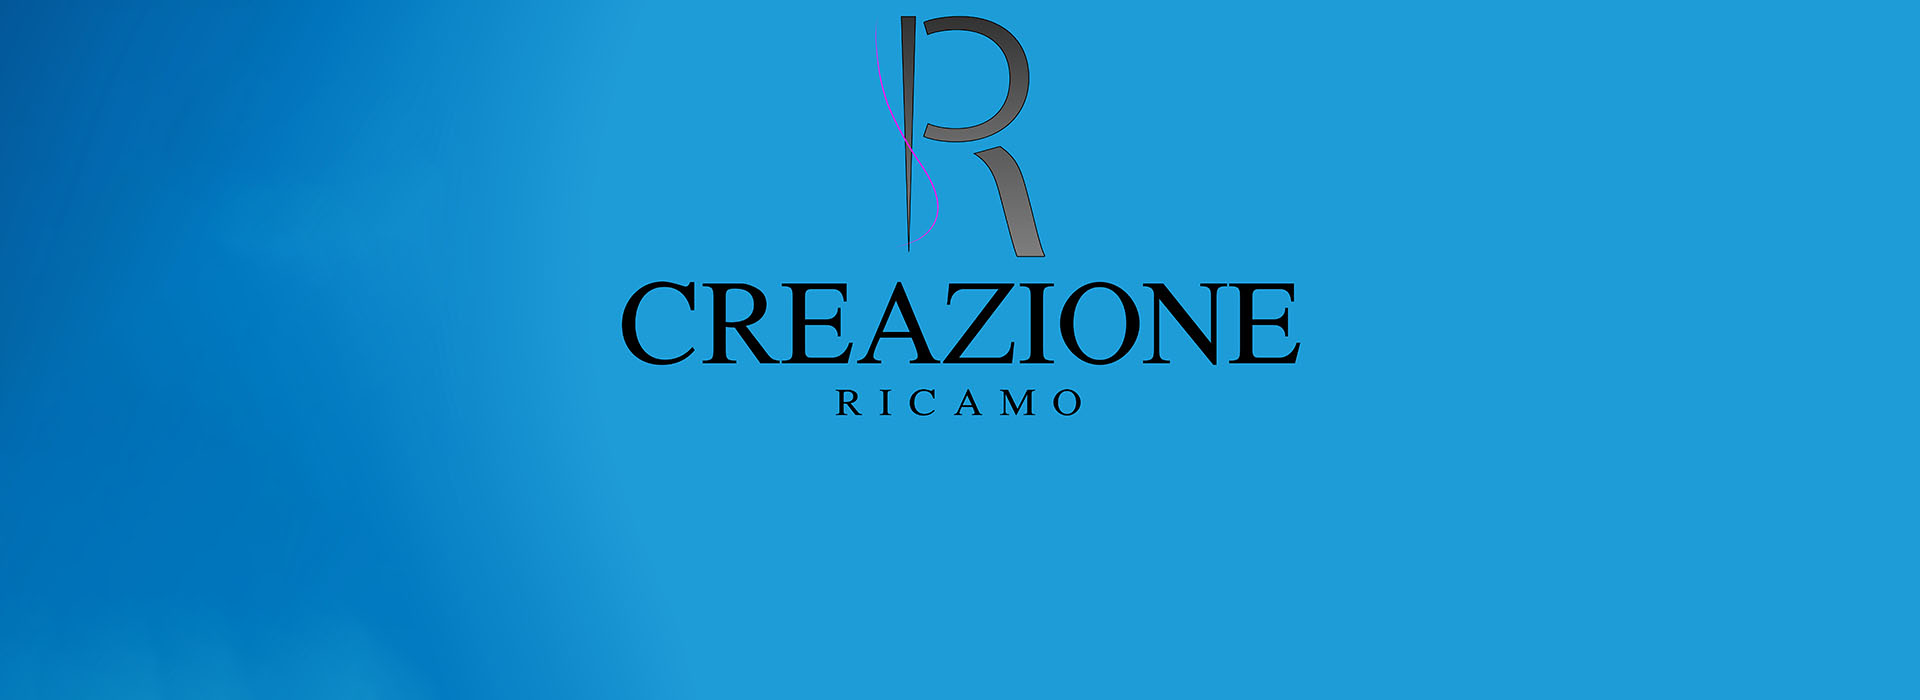
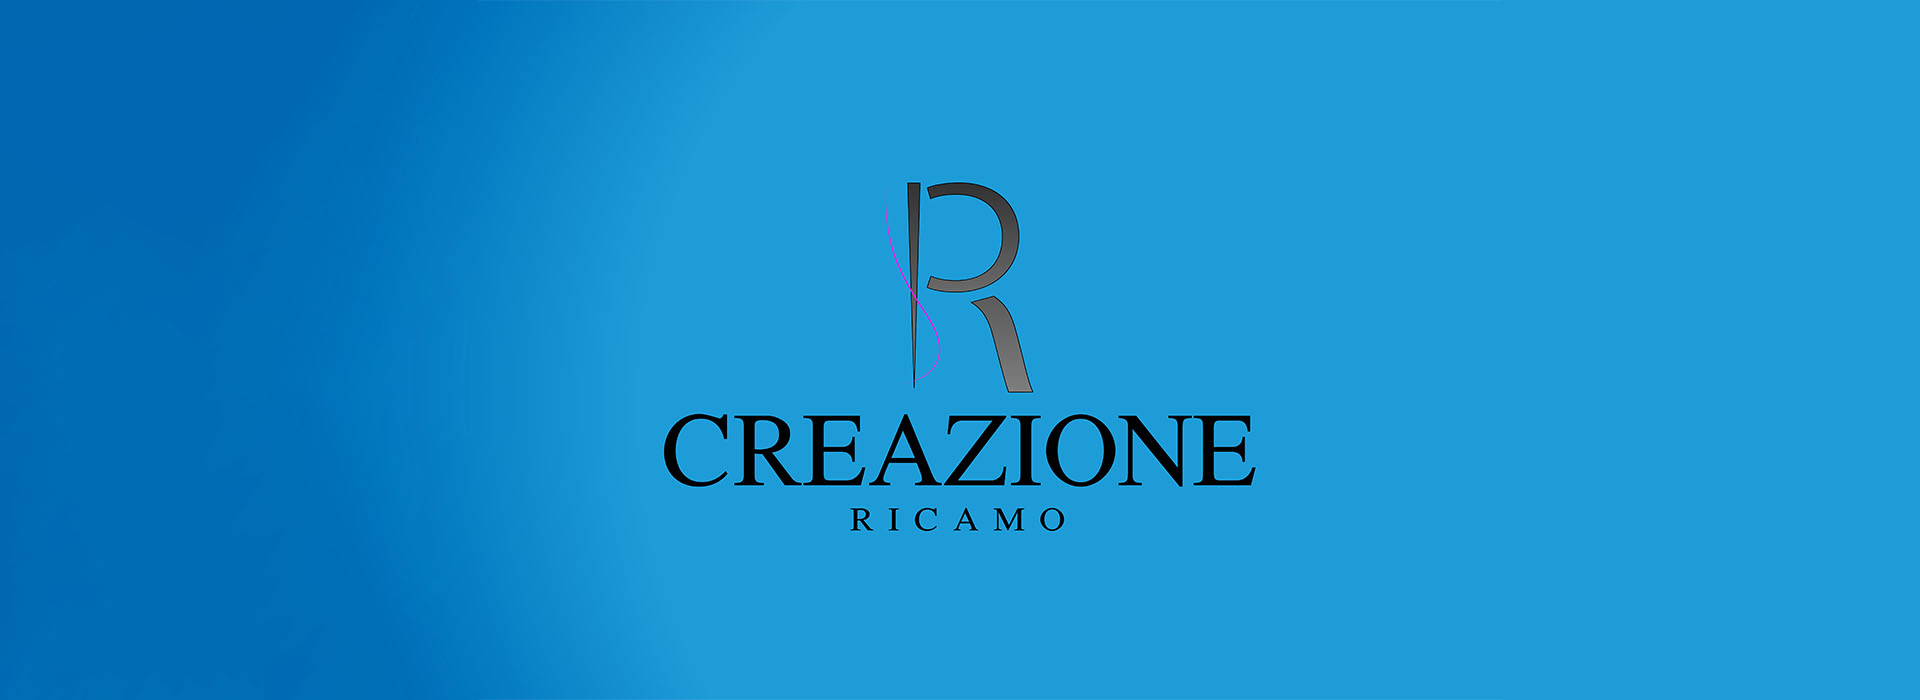
cambio immagine header-page, modifica contatti.html

Changed region(s): [[0.3125, 0.0, 0.6875, 0.78], [0.0938, 0.96, 0.2188, 1.0]]

diff --git a/contact.html b/contact.html
@@ -3,10 +3,16 @@
 
 <head>
     <meta charset="utf-8">
-    <title>Klinik - Clinic Website Template</title>
+    <title>Creazione Ricami - Contatti</title>
     <meta content="width=device-width, initial-scale=1.0" name="viewport">
     <meta content="" name="keywords">
     <meta content="" name="description">
+
+    <!-- Icon Font Stylesheet -->
+    <!-- Font Awesome v4 -->
+    <link rel="stylesheet" href="https://cdnjs.cloudflare.com/ajax/libs/font-awesome/4.7.0/css/font-awesome.min.css">
+    <!-- Font Awesome v5 -->
+    <link rel="stylesheet" href="https://cdnjs.cloudflare.com/ajax/libs/font-awesome/6.0.0-beta3/css/all.min.css">
 
     <!-- Favicon -->
     <link href="img/favicon.ico" rel="icon">
@@ -48,23 +54,23 @@
             <div class="col-lg-7 px-5 text-start">
                 <div class="h-100 d-inline-flex align-items-center py-3 me-4">
                     <small class="fa fa-map-marker-alt my-text-primary me-2"></small>
-                    <small>123 Street, New York, USA</small>
+                    <small>Napoli</small>
                 </div>
                 <div class="h-100 d-inline-flex align-items-center py-3">
                     <small class="far fa-clock my-text-primary me-2"></small>
-                    <small>Mon - Fri : 09.00 AM - 09.00 PM</small>
+                    <small>Lun - Ven : 09.00 - 19.00</small>
                 </div>
             </div>
             <div class="col-lg-5 px-5 text-end">
                 <div class="h-100 d-inline-flex align-items-center py-3 me-4">
                     <small class="fa fa-phone-alt my-text-primary me-2"></small>
-                    <small>+012 345 6789</small>
+                    <small>081 5295653 - 349 2937511</small>
                 </div>
                 <div class="h-100 d-inline-flex align-items-center">
-                    <a class="btn btn-sm-square rounded-circle bg-white my-text-primary me-1" href=""><i class="fab fa-facebook-f"></i></a>
-                    <a class="btn btn-sm-square rounded-circle bg-white my-text-primary me-1" href=""><i class="fab fa-twitter"></i></a>
-                    <a class="btn btn-sm-square rounded-circle bg-white my-text-primary me-1" href=""><i class="fab fa-linkedin-in"></i></a>
-                    <a class="btn btn-sm-square rounded-circle bg-white my-text-primary me-0" href=""><i class="fab fa-instagram"></i></a>
+                    <a class="btn btn-sm-square rounded-circle bg-white my-text-primary me-1" href="https://www.instagram.com/creazione_ricamo?igsh=dG8wcngwaGR2OWVn" target="_blank"><i class="fab fa-instagram"></i></a>
+                    <a class="btn btn-sm-square rounded-circle bg-white my-text-primary me-1" href="" target="_blank"><i class="fab fa-facebook-f"></i></a>
+                    <a class="btn btn-sm-square rounded-circle bg-white my-text-primary me-1" href="" target="_blank"><i class="fab fa-twitter"></i></a>
+                    <a class="btn btn-sm-square rounded-circle bg-white my-text-primary me-0" href="" target="_blank"><i class="fab fa-linkedin-in"></i></a>
                 </div>
             </div>
         </div>
@@ -73,45 +79,43 @@
 
 
     <!-- Navbar Start -->
-    <nav class="navbar navbar-expand-lg bg-white navbar-light sticky-top p-0 wow fadeIn" data-wow-delay="0.1s">
-        <a href="index.html" class="navbar-brand d-flex align-items-center px-4 px-lg-5">
-            <h1 class="m-0 my-text-primary"><i class="far fa-hospital me-3"></i>Klinik</h1>
-        </a>
-        <button type="button" class="navbar-toggler me-4" data-bs-toggle="collapse" data-bs-target="#navbarCollapse">
-            <span class="navbar-toggler-icon"></span>
-        </button>
-        <div class="collapse navbar-collapse" id="navbarCollapse">
-            <div class="navbar-nav ms-auto p-4 p-lg-0">
-                <a href="index.html" class="nav-item nav-link">Home</a>
-                <a href="about.html" class="nav-item nav-link">About</a>
-                <a href="service.html" class="nav-item nav-link">Service</a>
-                <div class="nav-item dropdown">
-                    <a href="#" class="nav-link dropdown-toggle" data-bs-toggle="dropdown">Pages</a>
-                    <div class="dropdown-menu rounded-0 rounded-bottom m-0">
-                        <a href="feature.html" class="dropdown-item">Feature</a>
-                        <a href="team.html" class="dropdown-item">Our Doctor</a>
-                        <a href="appointment.html" class="dropdown-item">Appointment</a>
-                        <a href="testimonial.html" class="dropdown-item">Testimonial</a>
-                        <a href="404.html" class="dropdown-item">404 Page</a>
-                    </div>
-                </div>
-                <a href="contact.html" class="nav-item nav-link active">Contact</a>
+<nav class="navbar navbar-expand-lg bg-white navbar-light sticky-top p-0 wow fadeIn" data-wow-delay="0.1s">
+    <a href="index.html" class="navbar-brand d-flex align-items-center px-4 px-lg-5">
+        <h1 class="m-0 my-text-primary"><i class="fa fa-house me-3"></i> Creazione Ricamo</h1>
+    </a>
+    <button type="button" class="navbar-toggler me-4" data-bs-toggle="collapse" data-bs-target="#navbarCollapse">
+        <span class="navbar-toggler-icon"></span>
+    </button>
+    <div class="collapse navbar-collapse" id="navbarCollapse">
+        <div class="navbar-nav ms-auto p-4 p-lg-0">
+            <a href="index.html" class="nav-item nav-link">Home</a>
+            <a href="about.html" class="nav-item nav-link">Chi Siamo</a>
+            <div class="nav-item dropdown d-flex align-items-center">
+                <!-- Link a "Servizi" separato dal pulsante per il dropdown -->
+                <a href="service.html" class="nav-link">Servizi</a>
+                <button class="btn dropdown-toggle" type="button" id="servicesDropdownButton" data-bs-toggle="dropdown" aria-expanded="false"></button>
+                <ul class="dropdown-menu" aria-labelledby="servicesDropdownButton">
+                    <li><a class="dropdown-item" href="ricamo.html">Ricamo</a></li>
+                    <li><a class="dropdown-item" href="DTF.html">DTF</a></li>
+                    <li><a class="dropdown-item" href="sublimatico.html">Sublimatico</a></li>
+                    <li><a class="dropdown-item" href="vinile.html">Vinile</a></li>
+                    <li><a class="dropdown-item" href="serigrafia.html">Serigrafia</a></li>
+                </ul>
             </div>
-            <a href="" class="btn my-btn-primary rounded-0 py-4 px-lg-5 d-none d-lg-block">Appointment<i class="fa fa-arrow-right ms-3"></i></a>
-        </div>
-    </nav>
-    <!-- Navbar End -->
+            <a href="contact.html" class="nav-item nav-link active">Contatti</a>
+</nav>
+<!-- Navbar End -->
 
 
     <!-- Page Header Start -->
     <div class="container-fluid page-header py-5 mb-5 wow fadeIn" data-wow-delay="0.1s">
         <div class="container py-5">
-            <h1 class="display-3 text-white mb-3 animated slideInDown">Contact Us</h1>
+            <h1 class="display-3 text-white mb-3 animated slideInDown">Contatti</h1>
             <nav aria-label="breadcrumb animated slideInDown">
                 <ol class="breadcrumb text-uppercase mb-0">
                     <li class="breadcrumb-item"><a class="text-white" href="#">Home</a></li>
                     <li class="breadcrumb-item"><a class="text-white" href="#">Pages</a></li>
-                    <li class="breadcrumb-item my-text-primary active my-color" aria-current="page">Contact</li>
+                    <li class="breadcrumb-item my-text-primary active my-color" aria-current="page">Contatti</li>
                 </ol>
             </nav>
         </div>
@@ -129,8 +133,10 @@
                             <i class="fa fa-map-marker-alt my-text-primary"></i>
                         </div>
                         <div class="ms-4">
-                            <p class="mb-2">Address</p>
-                            <h5 class="mb-0">123 Street, New York, USA</h5>
+                            <p class="mb-2">Indirizzo</p>
+                            <h5 class="mb-0">
+                                <a href="https://maps.app.goo.gl/WSVrFFgJL5UVE5Sw9">Napoli</a> 
+                            </h5>
                         </div>
                     </div>
                 </div>
@@ -140,8 +146,13 @@
                             <i class="fa fa-phone-alt my-text-primary"></i>
                         </div>
                         <div class="ms-4">
-                            <p class="mb-2">Call Us Now</p>
-                            <h5 class="mb-0">+012 345 6789</h5>
+                            <p class="mb-2">Chiamaci</p>
+                            <h5 class="mb-0">
+                                <a href="tel:+390815295653">081 529 5653</a>
+                            </h5>
+                            <h5 class="mb-0">
+                                <a href="tel:+3934929375113">349 293 7511</a>
+                            </h5>
                         </div>
                     </div>
                 </div>
@@ -151,44 +162,49 @@
                             <i class="fa fa-envelope-open my-text-primary"></i>
                         </div>
                         <div class="ms-4">
-                            <p class="mb-2">Mail Us Now</p>
-                            <h5 class="mb-0">info@example.com</h5>
+                            <p class="mb-2">E-mail</p>
+                            <h5 class="mb-0">
+                                <a href="mailto:creazione.ricamo@gmail.com">creazione.ricamo@gmail.com</a>
+                            </h5>
                         </div>
                     </div>
                 </div>
                 <div class="col-lg-6 wow fadeIn" data-wow-delay="0.1s">
                     <div class="bg-light rounded p-5">
-                        <p class="d-inline-block border rounded-pill py-1 px-4">Contact Us</p>
-                        <h1 class="mb-4">Have Any Query? Please Contact Us!</h1>
-                        <p class="mb-4">The contact form is currently inactive. Get a functional and working contact form with Ajax & PHP in a few minutes. Just copy and paste the files, add a little code and you're done. <a href="https://htmlcodex.com/contact-form">Download Now</a>.</p>
+                        <p class="d-inline-block border rounded-pill py-1 px-4">Contattaci</p>
+                        <h1 class="mb-1">Vuoi un preventivo?</h1>
+                        <h1 class="mb-1">Hai qualche domanda?</h1>
+                        <h1 class="mb-4">contattaci!</h1>
+                        <!-- <p class="mb-4">The contact form is currently inactive. Get a functional and working contact form with Ajax & PHP in a few minutes. Just copy and paste the files, add a little code and you're done. <a href="https://htmlcodex.com/contact-form">Download Now</a>.</p> -->
+                        <p class="mb-4"> Puoi inviarci i dettagli del tuo progetto qui. Valutiamo ogni tipo di lavoro, dalla personalizzazione alla produzione in serie. Una volta ricevuta la tua richiesta, ti invieremo un preventivo completo il prima possibile.</p>
                         <form>
                             <div class="row g-3">
                                 <div class="col-md-6">
                                     <div class="form-floating">
                                         <input type="text" class="form-control" id="name" placeholder="Your Name">
-                                        <label for="name">Your Name</label>
+                                        <label for="name">Il tuo Nome</label>
                                     </div>
                                 </div>
                                 <div class="col-md-6">
                                     <div class="form-floating">
                                         <input type="email" class="form-control" id="email" placeholder="Your Email">
-                                        <label for="email">Your Email</label>
+                                        <label for="email">La tua Email</label>
                                     </div>
                                 </div>
                                 <div class="col-12">
                                     <div class="form-floating">
                                         <input type="text" class="form-control" id="subject" placeholder="Subject">
-                                        <label for="subject">Subject</label>
+                                        <label for="subject">Il servizio per il quale ci contatti</label>
                                     </div>
                                 </div>
                                 <div class="col-12">
                                     <div class="form-floating">
                                         <textarea class="form-control" placeholder="Leave a message here" id="message" style="height: 100px"></textarea>
-                                        <label for="message">Message</label>
+                                        <label for="message">Messaggio</label>
                                     </div>
                                 </div>
                                 <div class="col-12">
-                                    <button class="btn my-btn-primary w-100 py-3" type="submit">Send Message</button>
+                                    <button class="btn my-btn-primary w-100 py-3" type="submit">Invia Messaggio</button>
                                 </div>
                             </div>
                         </form>
@@ -197,7 +213,7 @@
                 <div class="col-lg-6 wow fadeIn" data-wow-delay="0.5s">
                     <div class="h-100" style="min-height: 400px;">
                         <iframe class="rounded w-100 h-100"
-                        src="https://www.google.com/maps/embed?pb=!1m18!1m12!1m3!1d3001156.4288297426!2d-78.01371936852176!3d42.72876761954724!2m3!1f0!2f0!3f0!3m2!1i1024!2i768!4f13.1!3m3!1m2!1s0x4ccc4bf0f123a5a9%3A0xddcfc6c1de189567!2sNew%20York%2C%20USA!5e0!3m2!1sen!2sbd!4v1603794290143!5m2!1sen!2sbd"
+                        src="https://maps.app.goo.gl/WSVrFFgJL5UVE5Sw9"
                         frameborder="0" allowfullscreen="" aria-hidden="false"
                         tabindex="0"></iframe>
                     </div>
@@ -209,43 +225,55 @@
 
 
     <!-- Footer Start -->
-    <div class="container-fluid bg-dark text-light footer mt-5 pt-5 wow fadeIn" data-wow-delay="0.1s">
+    <div class="container-fluid bg-dark text-light footer pt-5 wow fadeIn" data-wow-delay="0.1s">
         <div class="container py-5">
             <div class="row g-5">
                 <div class="col-lg-3 col-md-6">
                     <h5 class="text-light mb-4">Address</h5>
-                    <p class="mb-2"><i class="fa fa-map-marker-alt me-3"></i>123 Street, New York, USA</p>
-                    <p class="mb-2"><i class="fa fa-phone-alt me-3"></i>+012 345 67890</p>
-                    <p class="mb-2"><i class="fa fa-envelope me-3"></i>info@example.com</p>
+                    <p class="mb-2">
+                      <i class="fa fa-map-marker-alt me-3" style="width: 15px;"></i>
+                      <a href="https://maps.app.goo.gl/WSVrFFgJL5UVE5Sw9" class="myLink">NAPOLI</a>
+                    </p>
+                    <div class="mb-2 d-flex">
+                      <i class="fa fa-phone-alt me-3 d" style="width: 15px;"></i>
+                      <div class="d-flex flex-column">  
+                        <a href="tel:+390815295653" class="myLink">081 529 5653</a>
+                        <a href="tel:+393492937511" class="myLink">349 293 7511</a>
+                      </div>
+                    </div>  
+                    <p class="mb-2">
+                      <i class="fa fa-envelope me-3" style="width: 15px;"></i>
+                      <a href="mailto:creazione.ricamo@gmail.com" class="myLink">creazione.ricamo@gmail.com</a>
+                    </p>
                     <div class="d-flex pt-2">
-                        <a class="btn btn-outline-light btn-social rounded-circle" href=""><i class="fab fa-twitter"></i></a>
+                        <a class="btn btn-outline-light btn-social rounded-circle" href="https://www.instagram.com/creazione_ricamo?igsh=dG8wcngwaGR2OWVn" target="_blank"><i class="fab fa-instagram"></i></a>
                         <a class="btn btn-outline-light btn-social rounded-circle" href=""><i class="fab fa-facebook-f"></i></a>
                         <a class="btn btn-outline-light btn-social rounded-circle" href=""><i class="fab fa-youtube"></i></a>
                         <a class="btn btn-outline-light btn-social rounded-circle" href=""><i class="fab fa-linkedin-in"></i></a>
                     </div>
                 </div>
                 <div class="col-lg-3 col-md-6">
-                    <h5 class="text-light mb-4">Services</h5>
-                    <a class="btn btn-link" href="">Cardiology</a>
-                    <a class="btn btn-link" href="">Pulmonary</a>
-                    <a class="btn btn-link" href="">Neurology</a>
-                    <a class="btn btn-link" href="">Orthopedics</a>
-                    <a class="btn btn-link" href="">Laboratory</a>
+                    <h5 class="text-light mb-4">Servizi</h5>
+                    <a class="btn btn-link" href="ricamo.html">Ricamo</a>
+                    <a class="btn btn-link" href="DTF.html">DTF</a>
+                    <a class="btn btn-link" href="sublimatico.html  ">Sublimazione</a>
+                    <a class="btn btn-link" href="">Vinile</a>
+                    <a class="btn btn-link" href="">Serigrafia</a>
                 </div>
                 <div class="col-lg-3 col-md-6">
-                    <h5 class="text-light mb-4">Quick Links</h5>
-                    <a class="btn btn-link" href="">About Us</a>
-                    <a class="btn btn-link" href="">Contact Us</a>
-                    <a class="btn btn-link" href="">Our Services</a>
+                    <h5 class="text-light mb-4">Collegamenti Rapidi</h5>
+                    <a class="btn btn-link" href="about.html">Chi Siamo</a>
+                    <a class="btn btn-link" href="contact.html">Contatti</a>
+                    <a class="btn btn-link" href="service.html">Servizi</a>
                     <a class="btn btn-link" href="">Terms & Condition</a>
                     <a class="btn btn-link" href="">Support</a>
                 </div>
                 <div class="col-lg-3 col-md-6">
                     <h5 class="text-light mb-4">Newsletter</h5>
-                    <p>Dolor amet sit justo amet elitr clita ipsum elitr est.</p>
+                    <p>Mandaci la tua e-mail per restare sempre aggiornato sulle offerte.</p>
                     <div class="position-relative mx-auto" style="max-width: 400px;">
                         <input class="form-control border-0 w-100 py-3 ps-4 pe-5" type="text" placeholder="Your email">
-                        <button type="button" class="btn my-btn-primary py-2 position-absolute top-0 end-0 mt-2 me-2">SignUp</button>
+                        <button type="button" class="btn my-btn-primary py-2 position-absolute top-0 end-0 mt-2 me-2">Invia</button>
                     </div>
                 </div>
             </div>
@@ -254,7 +282,7 @@
             <div class="copyright">
                 <div class="row">
                     <div class="col-md-6 text-center text-md-start mb-3 mb-md-0">
-                        &copy; <a class="border-bottom" href="#">Your Site Name</a>, All Right Reserved.
+                        &copy; <a class="border-bottom" href="#">Creazione Ricamo</a>, All Right Reserved.
                     </div>
                     <div class="col-md-6 text-center text-md-end">
                         <!--/*** This template is free as long as you keep the footer author’s credit link/attribution link/backlink. If you'd like to use the template without the footer author’s credit link/attribution link/backlink, you can purchase the Credit Removal License from "https://htmlcodex.com/credit-removal". Thank you for your support. ***/-->
